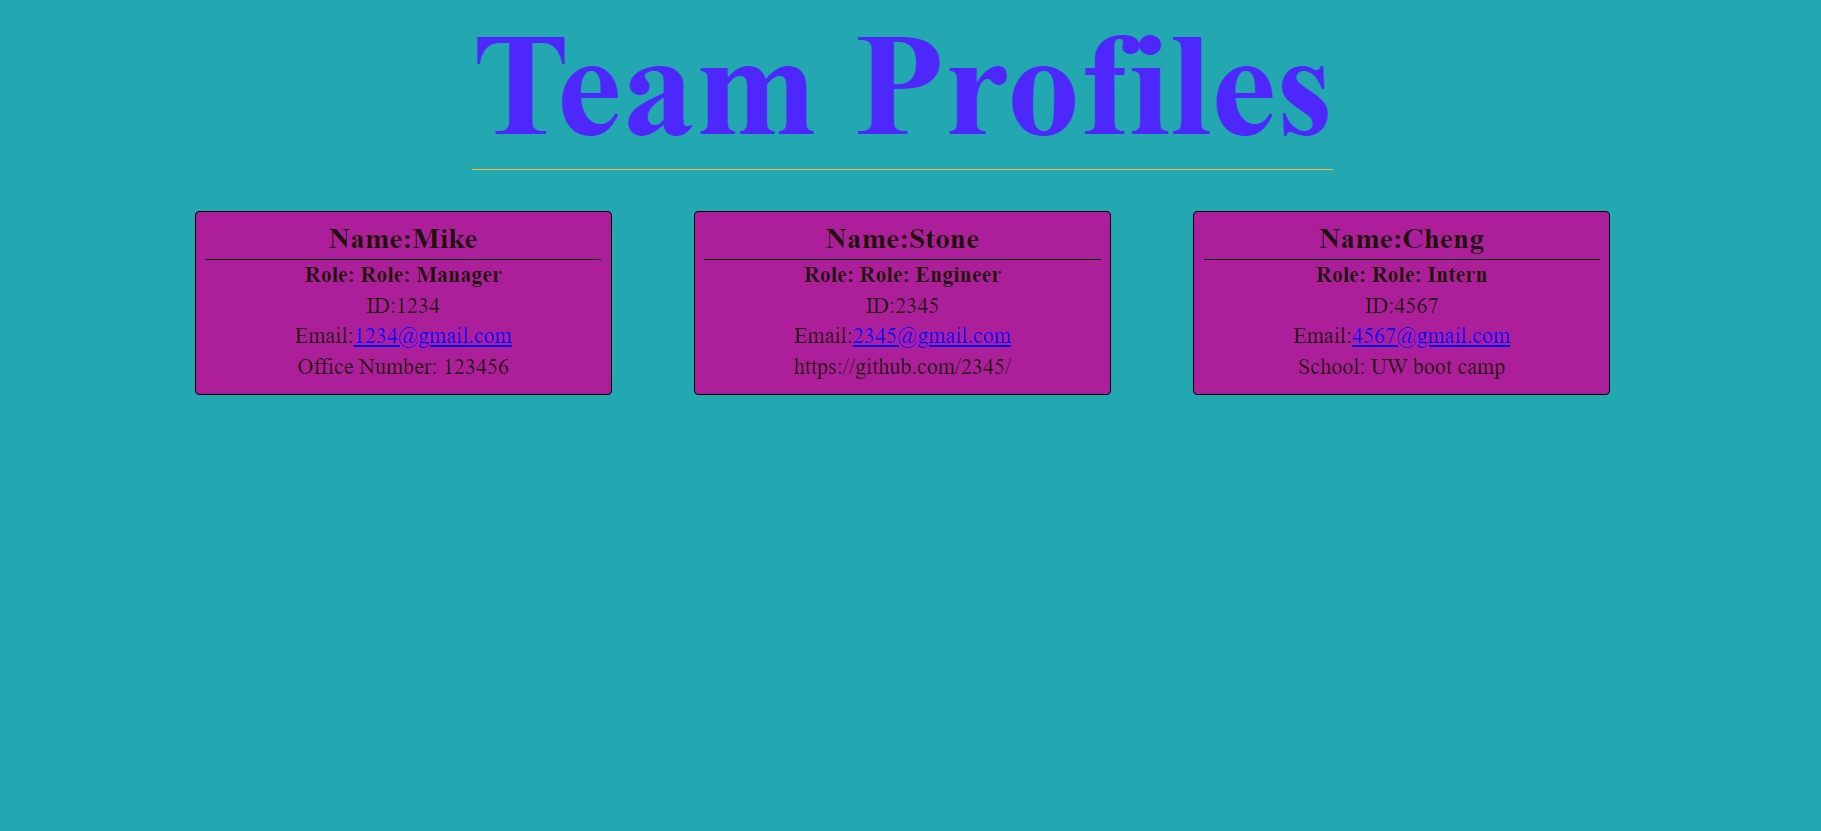
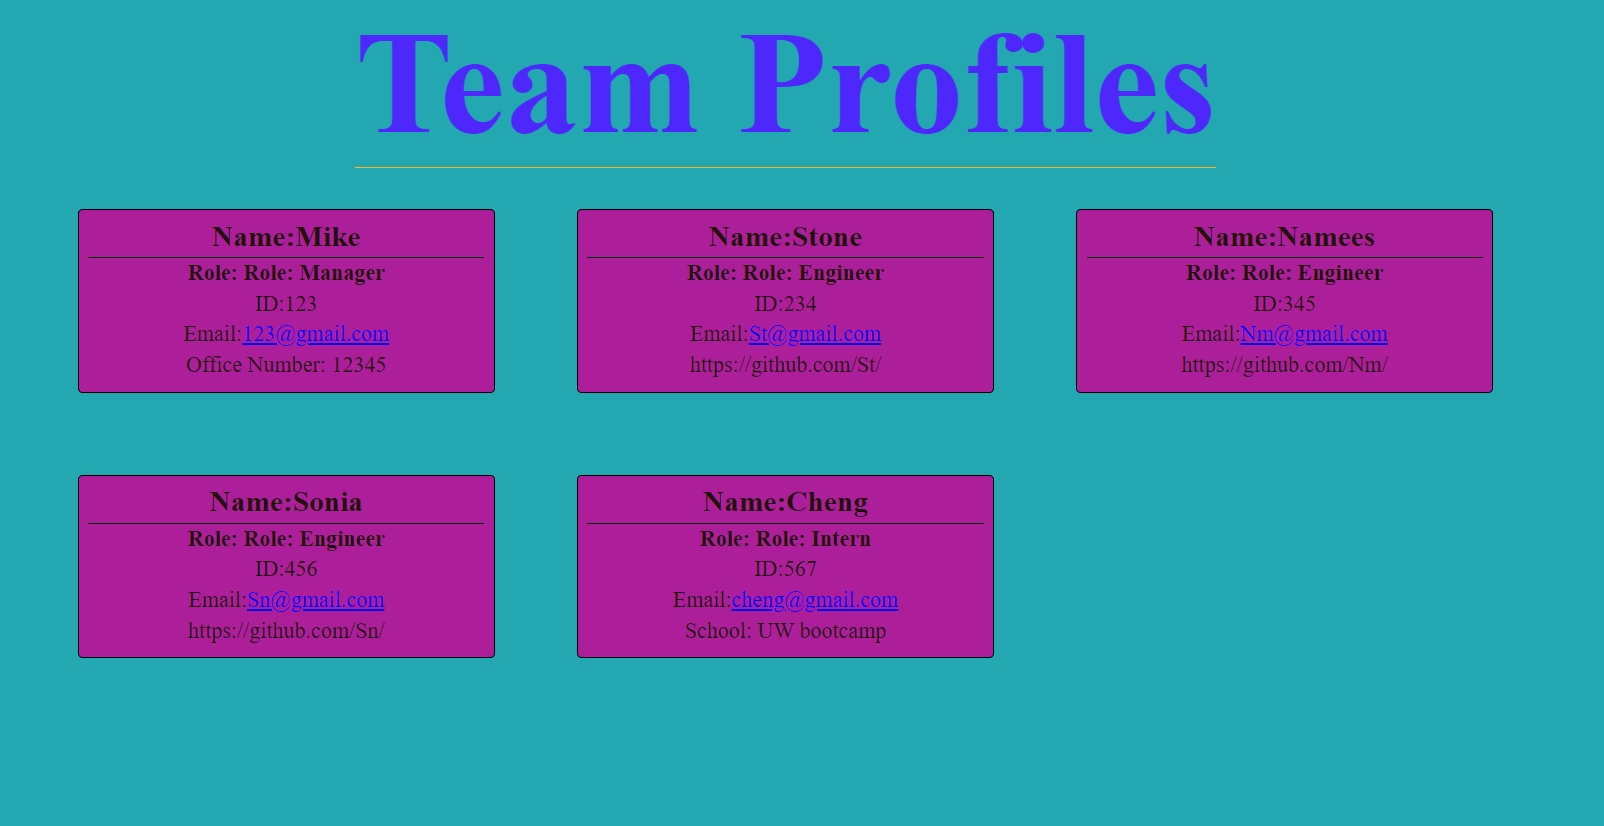
+ screenshots

diff --git a/dist/index.html b/dist/index.html
@@ -16,21 +16,33 @@
     <div>
             <h2>Name:Mike</h2>
             <h3>Role: Role: Manager</h3>
-            <p>ID:1234</p>
-            <p>Email:<a href="mailto:https://1234@gmail.com">1234@gmail.com</a></p>
-            <p>Office Number: 123456</p>
+            <p>ID:123</p>
+            <p>Email:<a href="mailto:https://123@gmail.com">123@gmail.com</a></p>
+            <p>Office Number: 12345</p>
         </div><div>
             <h2>Name:Stone</h2>
             <h3>Role: Role: Engineer</h3>
-            <p>ID:2345</p>
-            <p>Email:<a href="mailto:https://2345@gmail.com">2345@gmail.com</a></p>
-            <p>https://github.com/2345/</p>
+            <p>ID:234</p>
+            <p>Email:<a href="mailto:https://St@gmail.com">St@gmail.com</a></p>
+            <p>https://github.com/St/</p>
+        </div><div>
+            <h2>Name:Namees</h2>
+            <h3>Role: Role: Engineer</h3>
+            <p>ID:345</p>
+            <p>Email:<a href="mailto:https://Nm@gmail.com">Nm@gmail.com</a></p>
+            <p>https://github.com/Nm/</p>
+        </div><div>
+            <h2>Name:Sonia</h2>
+            <h3>Role: Role: Engineer</h3>
+            <p>ID:456</p>
+            <p>Email:<a href="mailto:https://Sn@gmail.com">Sn@gmail.com</a></p>
+            <p>https://github.com/Sn/</p>
         </div><div>
             <h2>Name:Cheng</h2>
             <h3>Role: Role: Intern</h3>
-            <p>ID:4567</p>
-            <p>Email:<a href="mailto:https://4567@gmail.com">4567@gmail.com</a></p>
-            <p>School: UW boot camp</p>
+            <p>ID:567</p>
+            <p>Email:<a href="mailto:https://cheng@gmail.com">cheng@gmail.com</a></p>
+            <p>School: UW bootcamp</p>
         </div>
     </div>
 </body>
